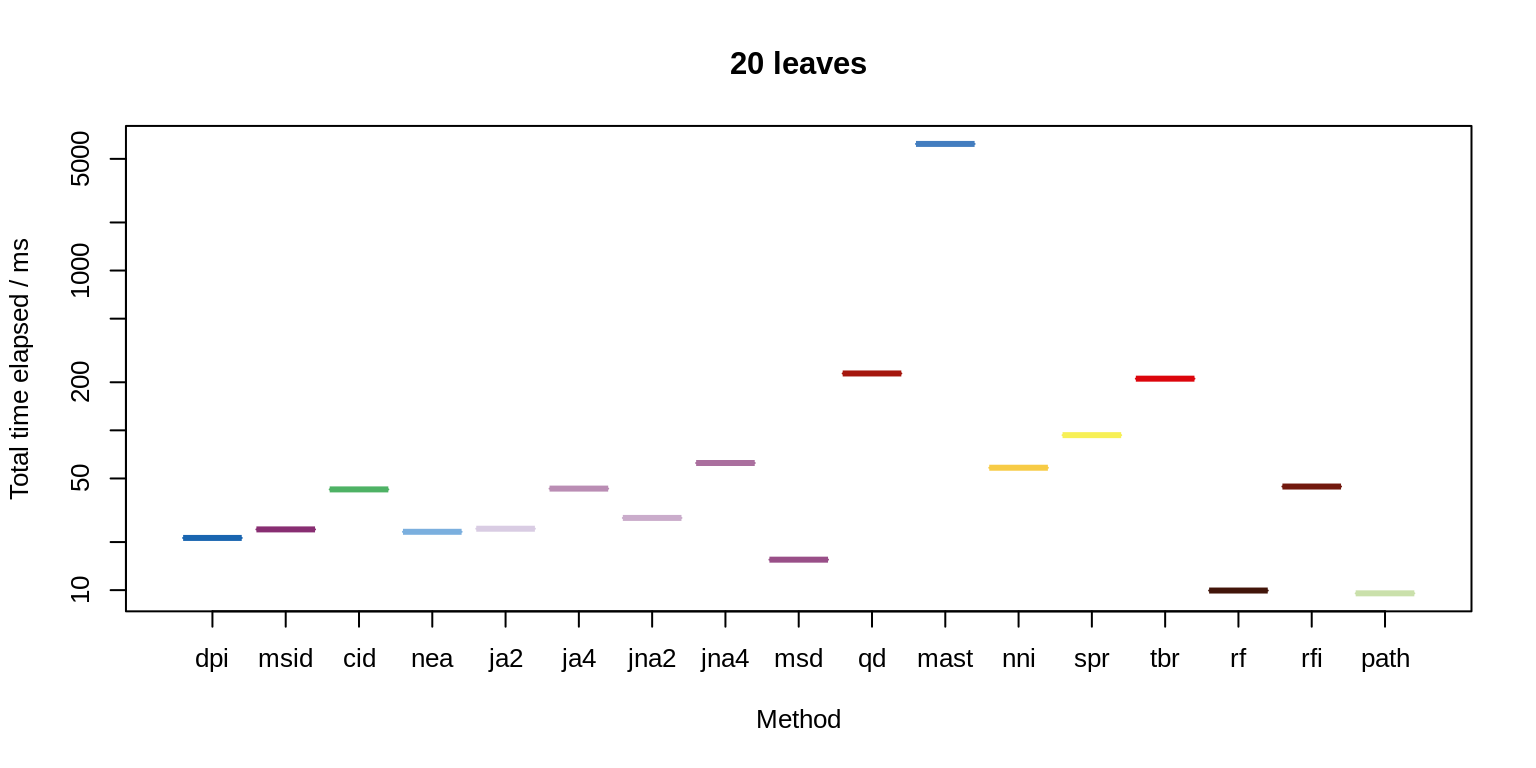
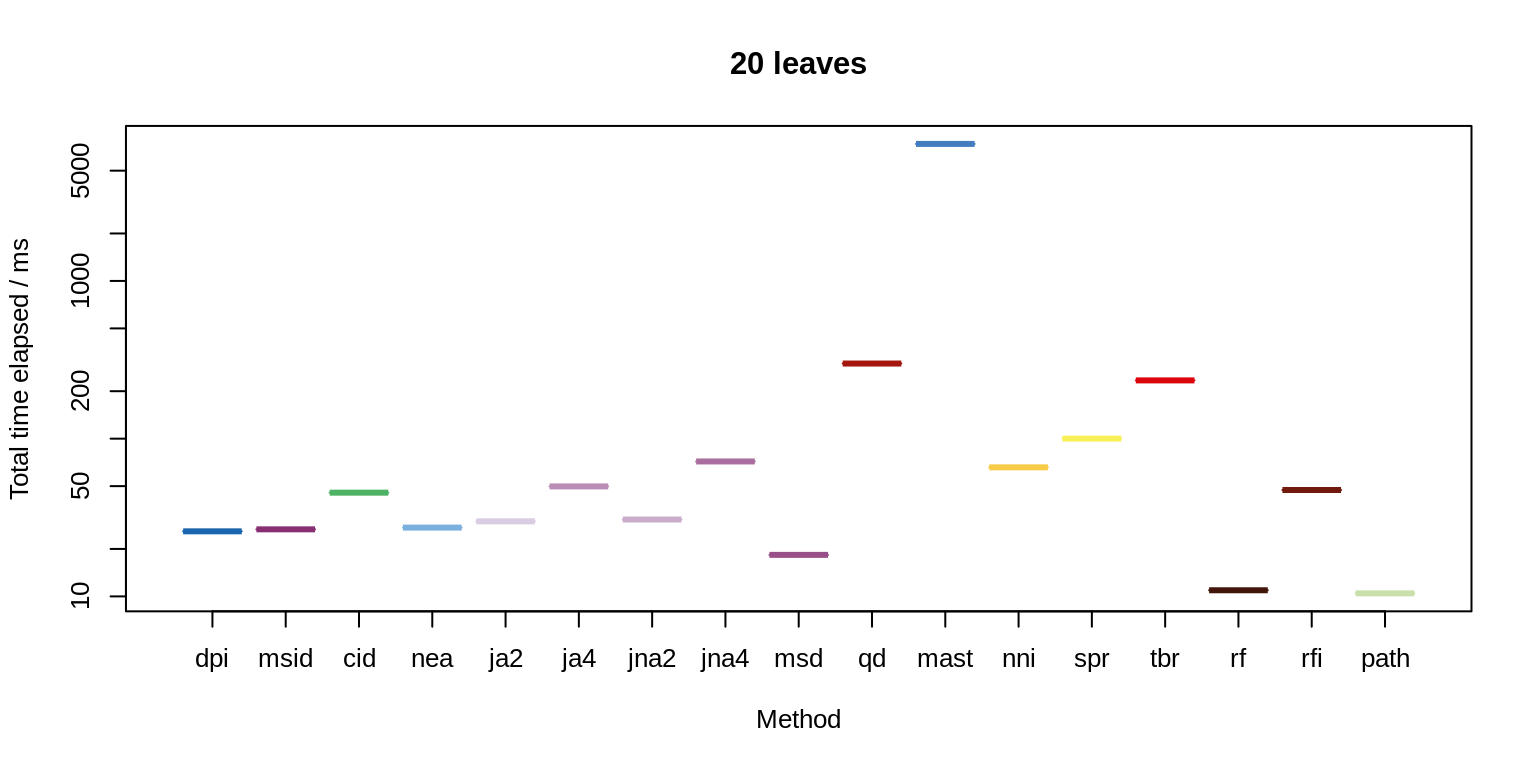
Built site for TreeDistData: 0.1.0@1e7a28e

diff --git a/articles/10-timing.html b/articles/10-timing.html
@@ -150,88 +150,88 @@ The values reported in Smith <span class="citation">(2020)</span> were calculate
 <tbody>
 <tr class="odd">
 <td>Path</td>
-<td align="right">9.6</td>
-<td align="right">14</td>
+<td align="right">11</td>
+<td align="right">15</td>
 </tr>
 <tr class="even">
 <td>Robinson-Foulds</td>
-<td align="right">10.0</td>
+<td align="right">11</td>
 <td align="right">13</td>
 </tr>
 <tr class="odd">
 <td>Match. Split Dist.</td>
-<td align="right">16.0</td>
-<td align="right">46</td>
+<td align="right">19</td>
+<td align="right">48</td>
 </tr>
 <tr class="even">
 <td>Phylog. Info. Dist</td>
-<td align="right">21.0</td>
-<td align="right">83</td>
+<td align="right">26</td>
+<td align="right">91</td>
 </tr>
 <tr class="odd">
-<td>Nye et al.</td>
-<td align="right">23.0</td>
-<td align="right">130</td>
+<td>Match. Split Info Dist</td>
+<td align="right">27</td>
+<td align="right">160</td>
 </tr>
 <tr class="even">
-<td>Match. Split Info Dist</td>
-<td align="right">24.0</td>
-<td align="right">150</td>
+<td>Nye et al.</td>
+<td align="right">28</td>
+<td align="right">140</td>
 </tr>
 <tr class="odd">
 <td>JRF (k=2, arboreal)</td>
-<td align="right">24.0</td>
+<td align="right">30</td>
 <td align="right">120</td>
 </tr>
 <tr class="even">
 <td>JRF (k=2, non-arb.)</td>
-<td align="right">29.0</td>
-<td align="right">170</td>
+<td align="right">31</td>
+<td align="right">190</td>
 </tr>
 <tr class="odd">
 <td>Clust. Info. Dist.</td>
-<td align="right">43.0</td>
-<td align="right">260</td>
+<td align="right">46</td>
+<td align="right">270</td>
 </tr>
 <tr class="even">
-<td>JRF (k=4, arboreal)</td>
-<td align="right">44.0</td>
-<td align="right">540</td>
+<td>Info. Corr. RF</td>
+<td align="right">48</td>
+<td align="right">130</td>
 </tr>
 <tr class="odd">
-<td>Info. Corr. RF</td>
-<td align="right">45.0</td>
-<td align="right">130</td>
+<td>JRF (k=4, arboreal)</td>
+<td align="right">50</td>
+<td align="right">590</td>
 </tr>
 <tr class="even">
 <td>NNI (approx.)</td>
-<td align="right">59.0</td>
-<td align="right">82</td>
+<td align="right">66</td>
+<td align="right">88</td>
 </tr>
 <tr class="odd">
 <td>JRF (k=4, non-arb.)</td>
-<td align="right">63.0</td>
-<td align="right">880</td>
+<td align="right">72</td>
+<td align="right">910</td>
 </tr>
 <tr class="even">
 <td>SPR (approx.)</td>
-<td align="right">94.0</td>
-<td align="right">780</td>
+<td align="right">100</td>
+<td align="right">800</td>
 </tr>
 <tr class="odd">
 <td>TBR (approx.)</td>
-<td align="right">210.0</td>
-<td align="right">360</td>
+<td align="right">240</td>
+<td align="right">380</td>
 </tr>
 <tr class="even">
 <td>Quartet</td>
-<td align="right">230.0</td>
-<td align="right">430</td>
+<td align="right">300</td>
+<td align="right">500</td>
 </tr>
 <tr class="odd">
 <td>MAST size</td>
-<td align="right">6300.0</td>
-<td align="right">25000</td>
+<td align="right">7500</td>
+<td align="right">28000</td>
 </tr>
 </tbody>
 </table>

diff --git a/index.html b/index.html
@@ -119,7 +119,6 @@
 <div class="page-header"><h1 class="hasAnchor">
 <a href="#treedistdata" class="anchor"></a>TreeDistData</h1></div>
 
-<p><a href="https://doi.org/10.5281/zenodo.3697901" class="uri">https://doi.org/10.5281/zenodo.3697901</a></p>
 <p>‘<a href="https://ms609.github.io/TreeDistData/">TreeDistData</a>’ is an R package containing the functions and scripts used to compare the performance of tree distance metrics in Smith (in review).</p>
 <p>The “<a href="https://ms609.github.io/TreeDistData/articles/">Articles</a>” link in the navigation bar lists vignettes detailing the output of analyses corresponding to the stated sections of Smith (in review). Each of these pages includes a link to the R source code, which can be used to reproduce the analytical results.</p>
 <p>The “<a href="https://ms609.github.io/TreeDistData/reference/">Reference</a>” link lists convenience functions, which facilitate calls to “TreeDist”, and data objects that store the results of lengthy analyses. The code used to generate these data objects is available in the <a href="https://github.com/ms609/TreeDistData/tree/master/data-raw"><code>data-raw</code></a> directory.</p>
